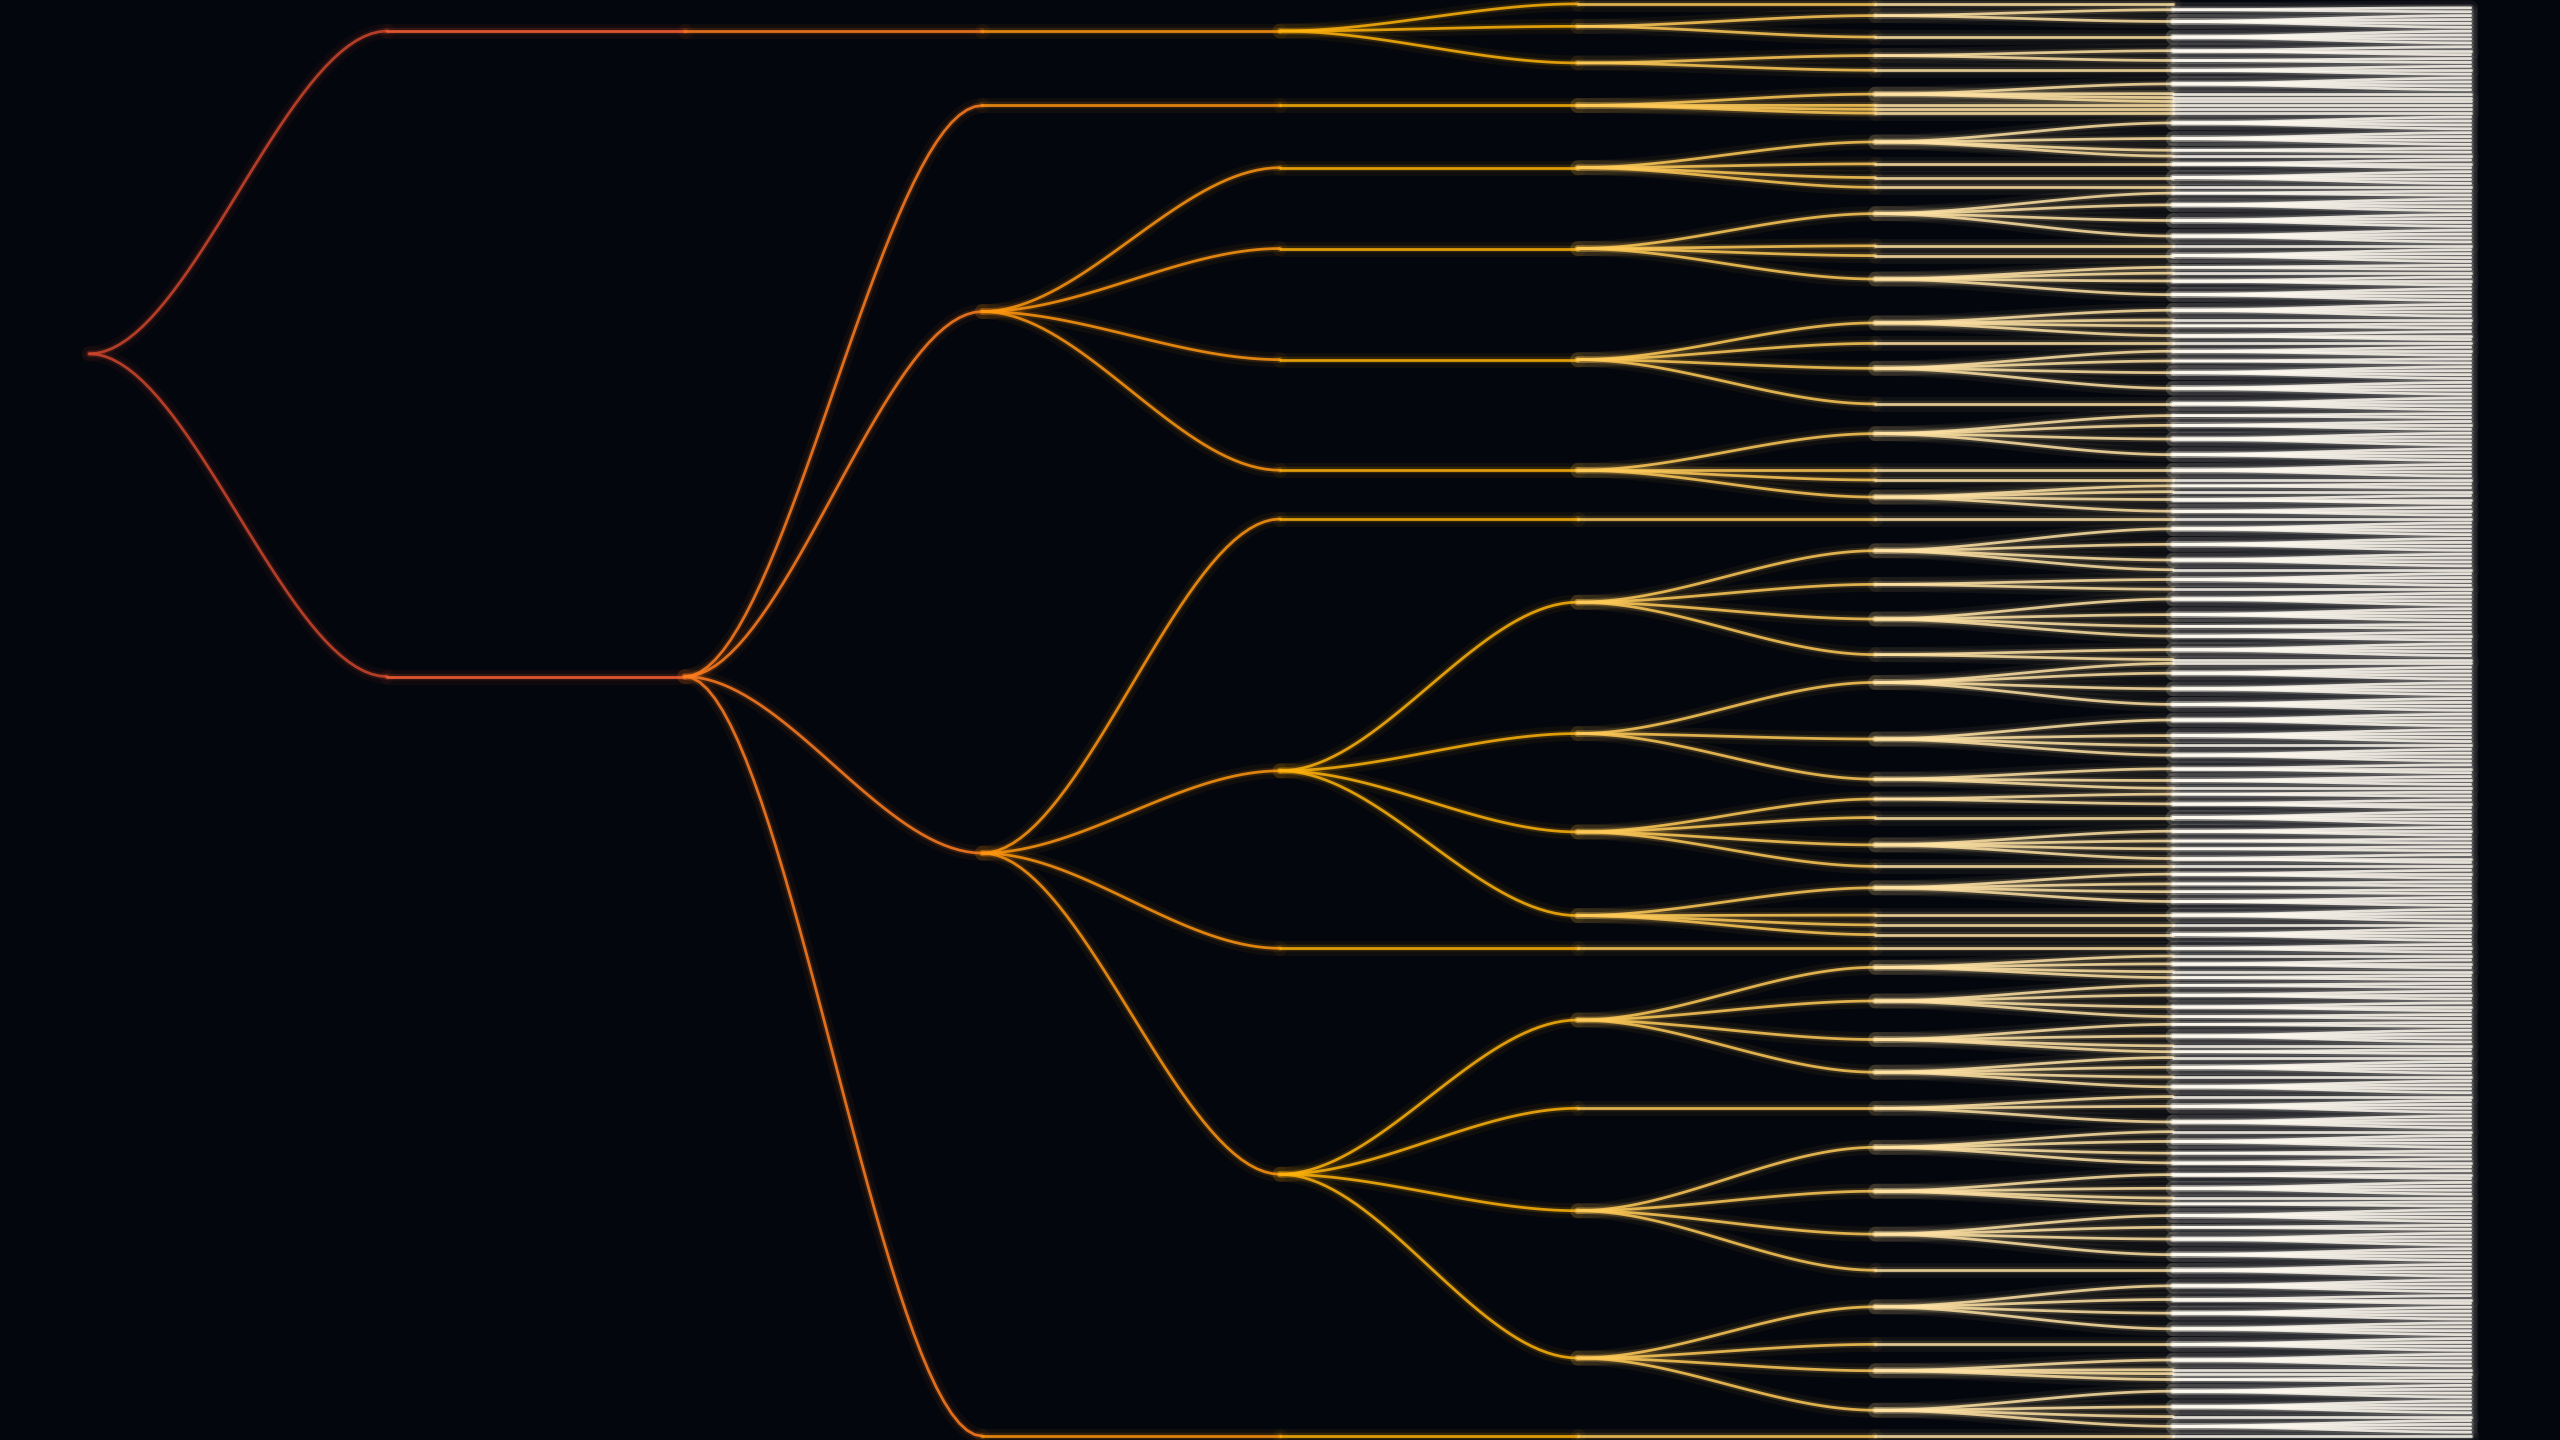
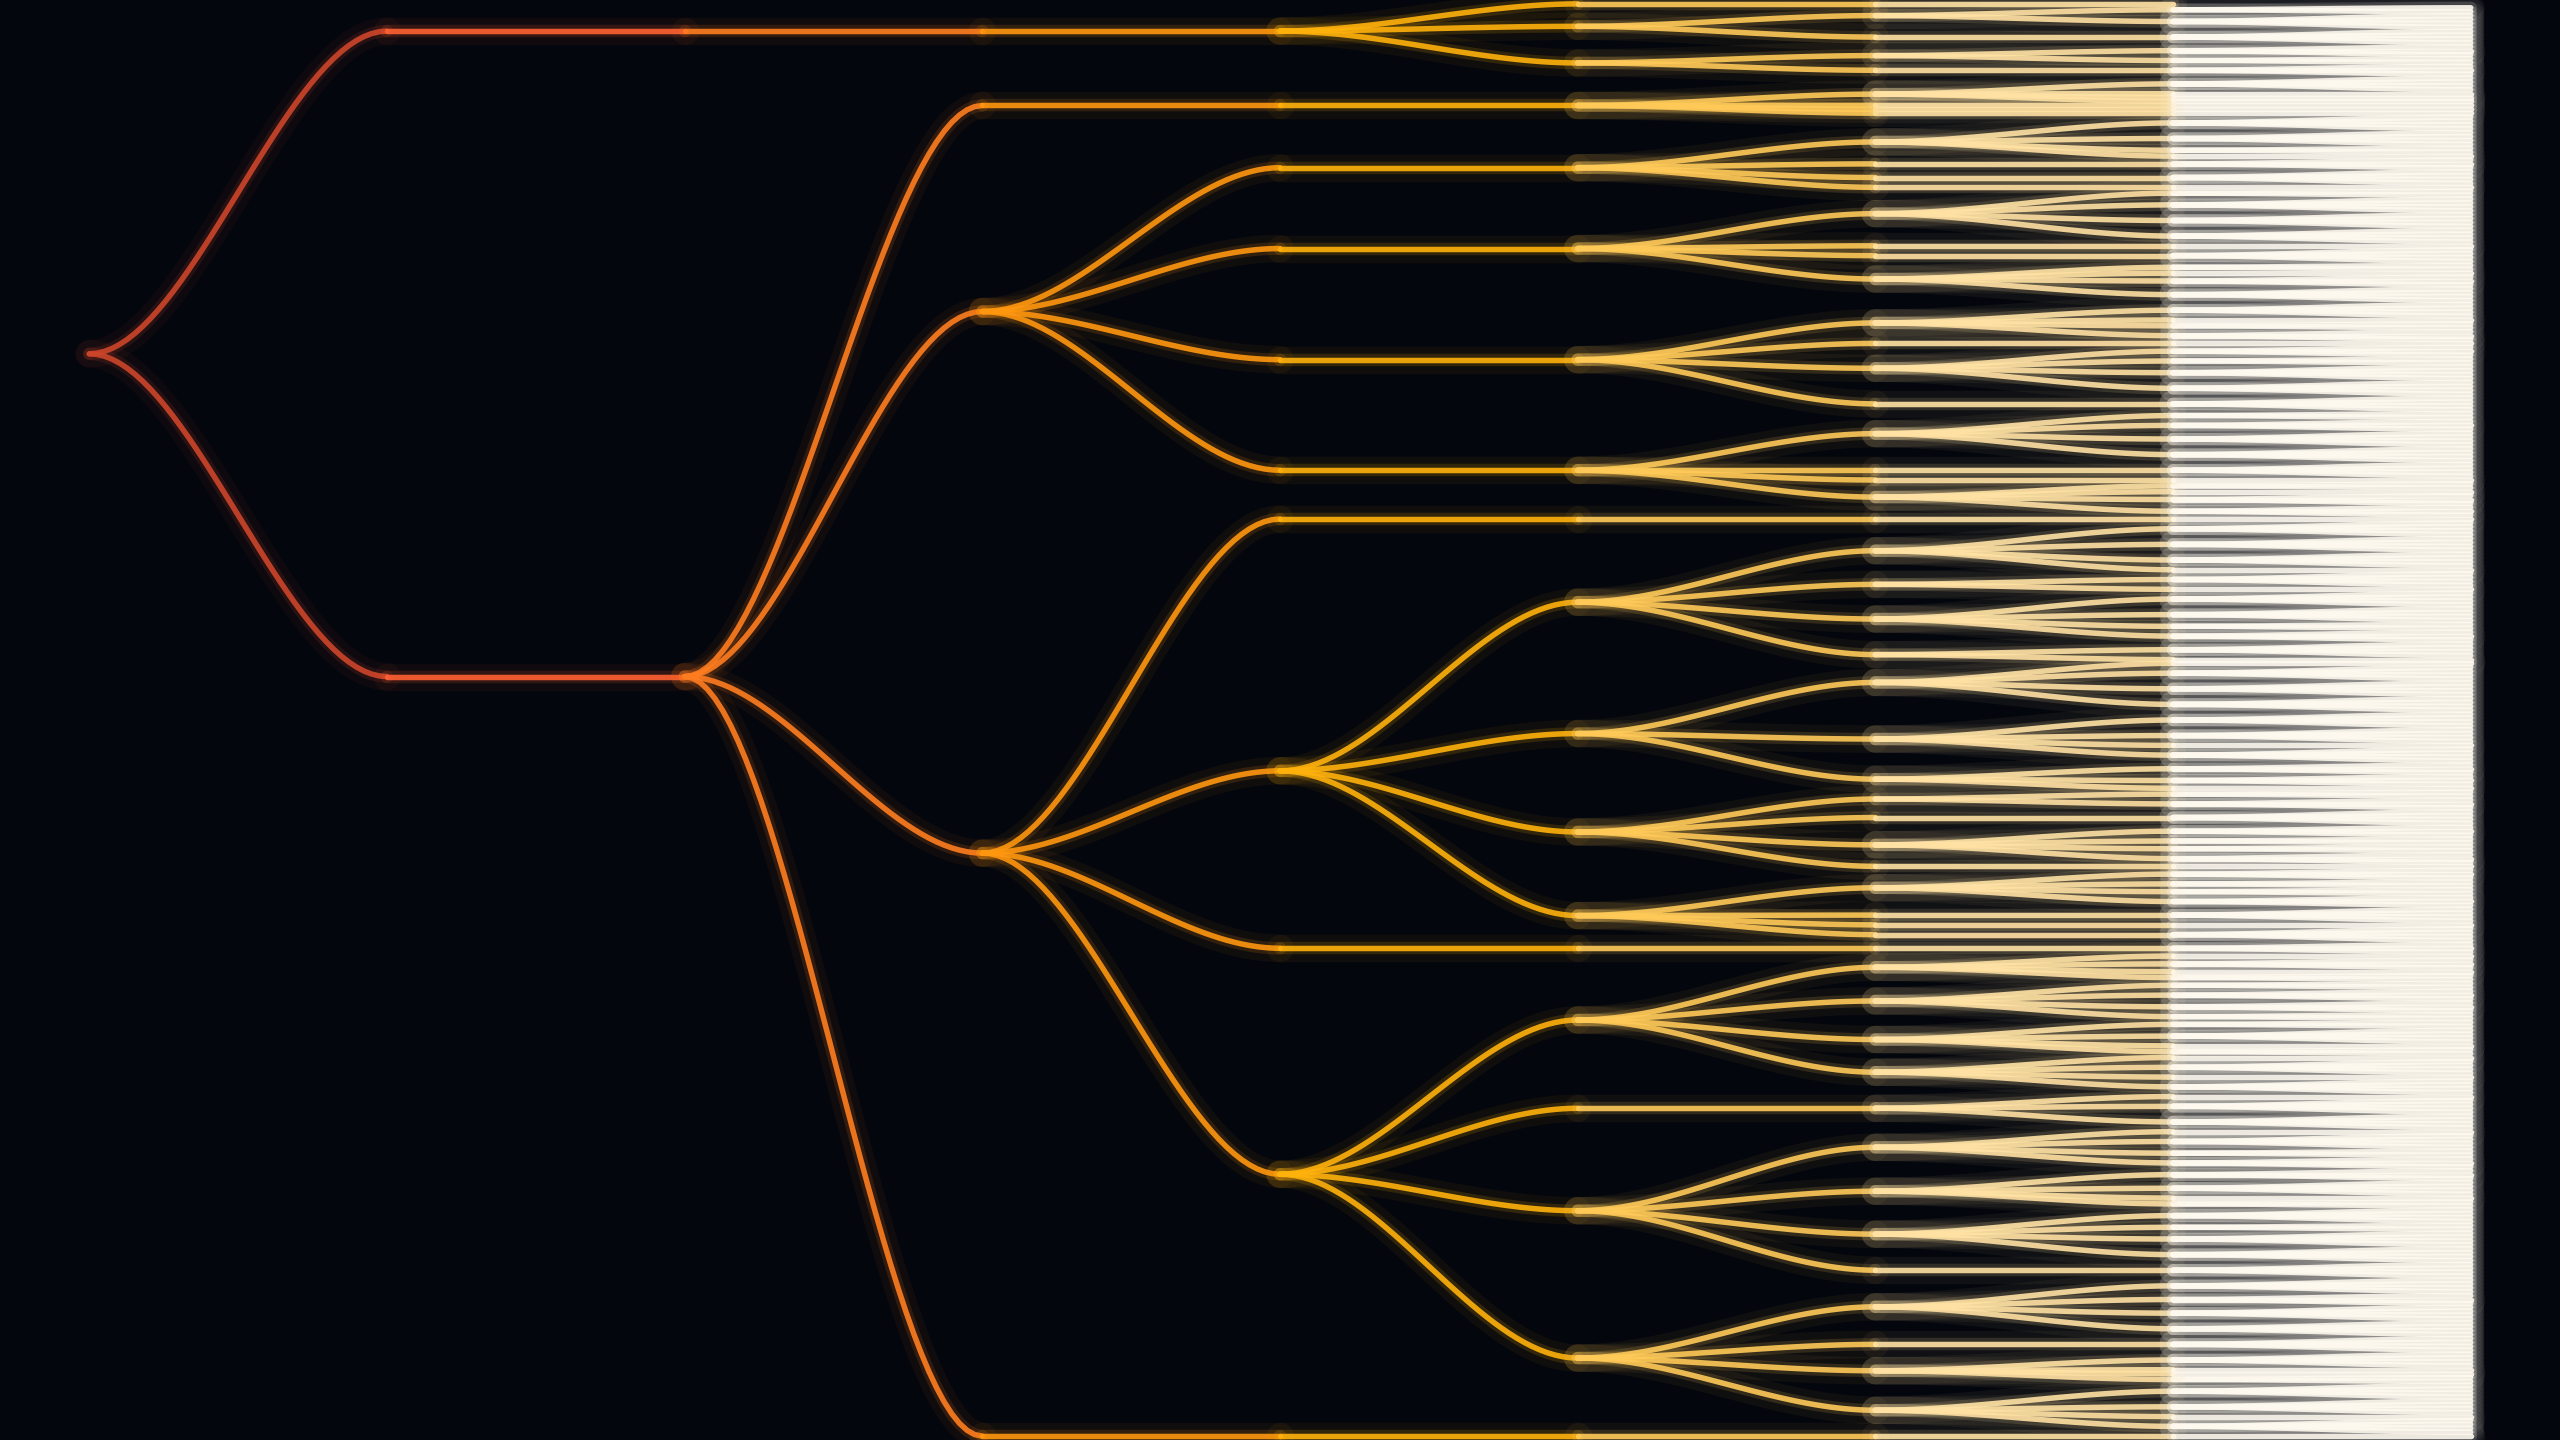
style: thicken forking-tree branch strokes and refresh gallery

diff --git a/concepts/8-forking-paths-tree/generate.py b/concepts/8-forking-paths-tree/generate.py
@@ -116,7 +116,7 @@ def draw(ax, parent, depth, y, prob, cmap, lw):
         xs = depth[p] + (depth[i] - depth[p]) * th
         ys = y[p] + (y[i] - y[p]) * smooth
         col = cmap(0.15 + 0.85 * depth[i] / maxd)  # brighten outward with depth
-        for width, a in [(6, 0.05), (2.6, 0.14), (1.1, 0.85)]:
+        for width, a in [(11, 0.05), (5.0, 0.14), (2.2, 0.9)]:
             ax.plot(xs, ys, color=col, lw=width * lw, alpha=a, solid_capstyle="round")
     ax.set_xlim(-0.3, maxd + 0.3)
     ax.set_ylim(y.min() - 1, y.max() + 1)
